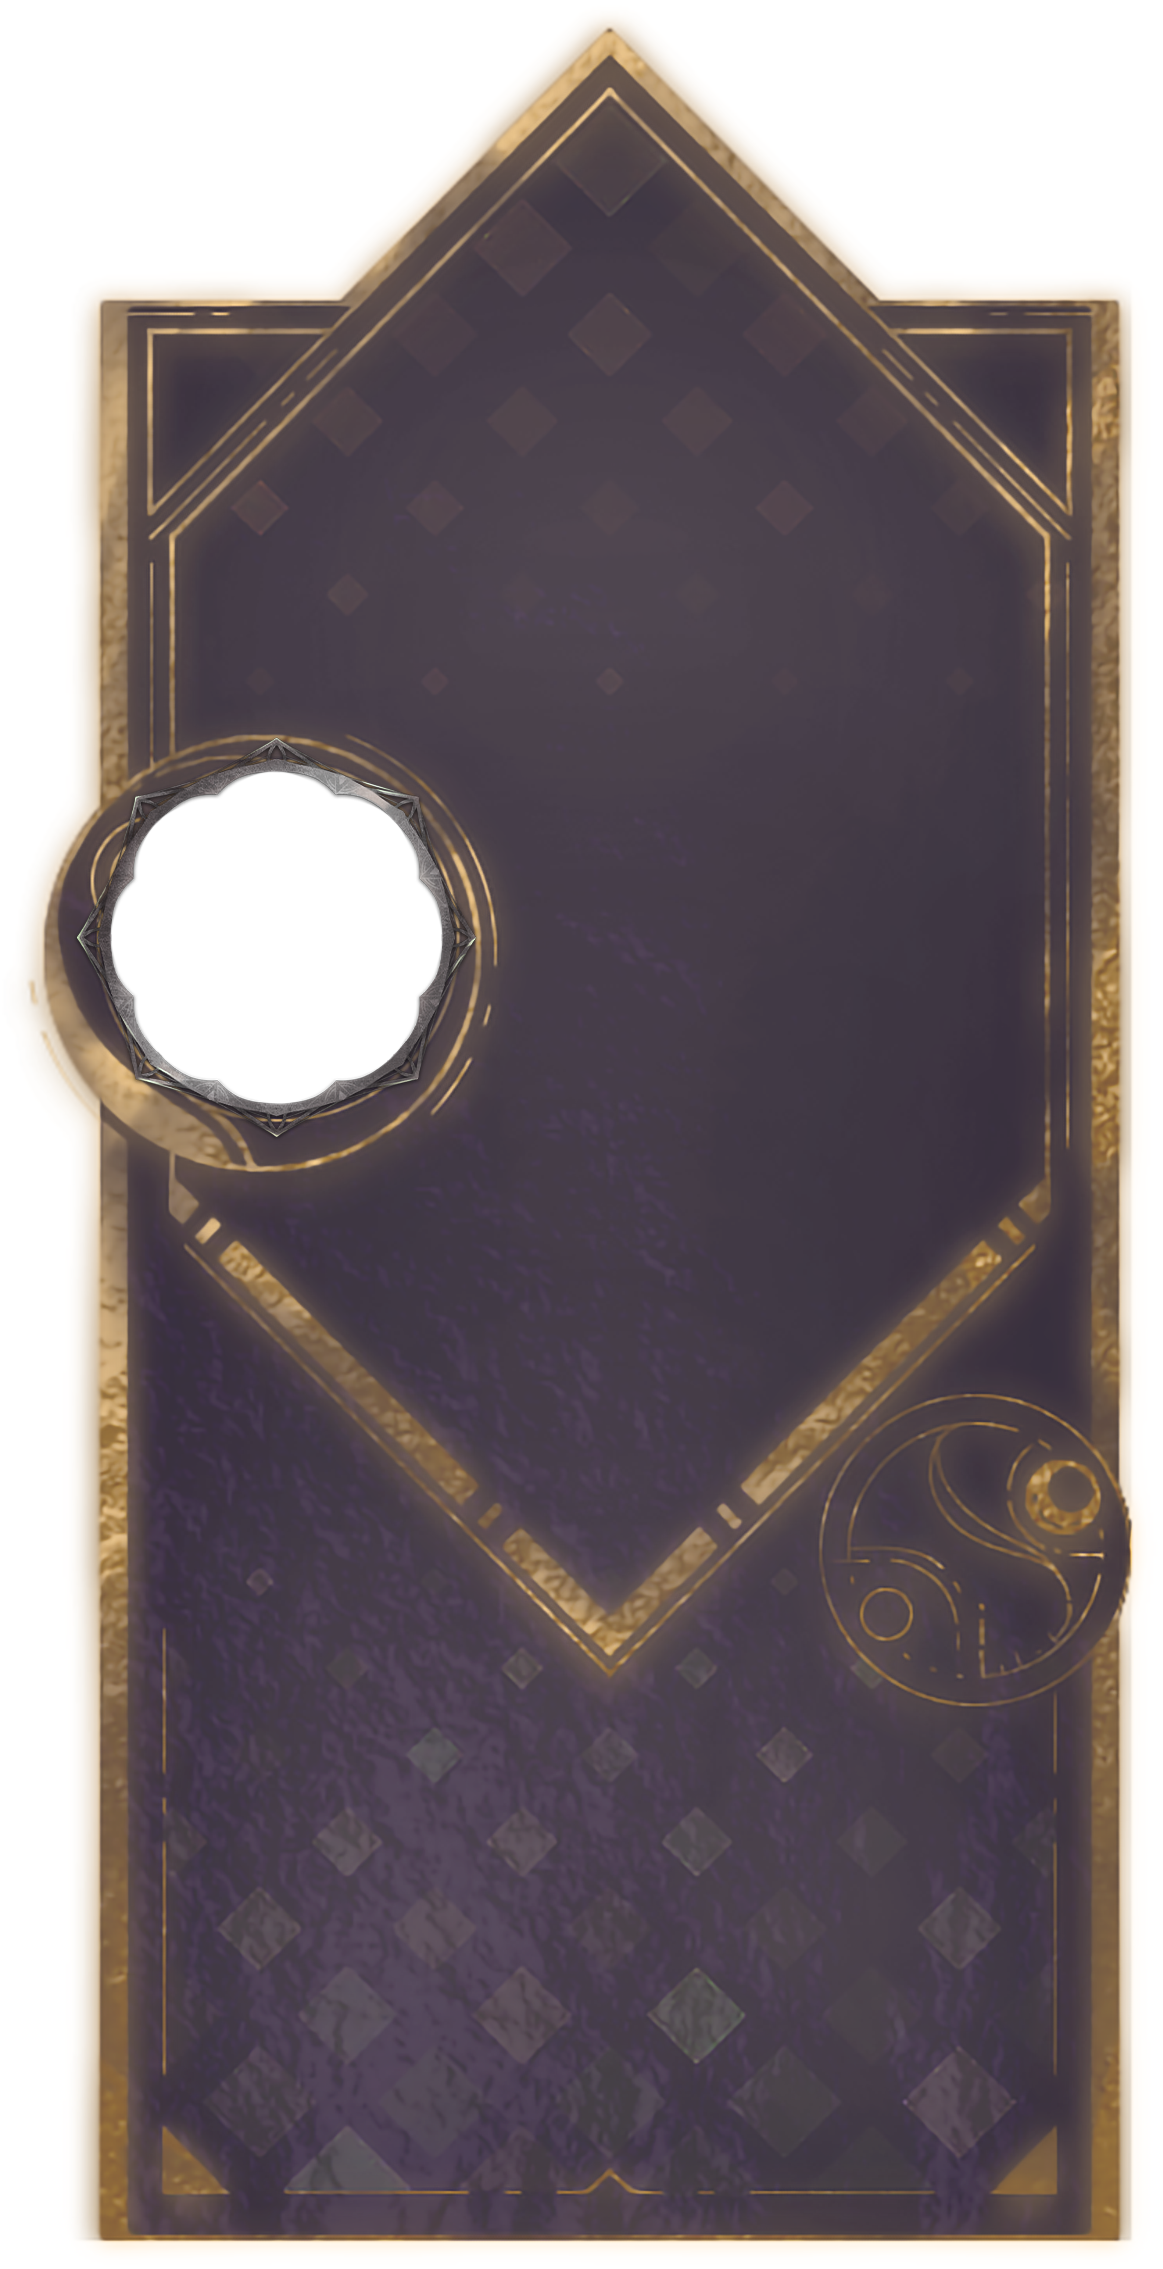
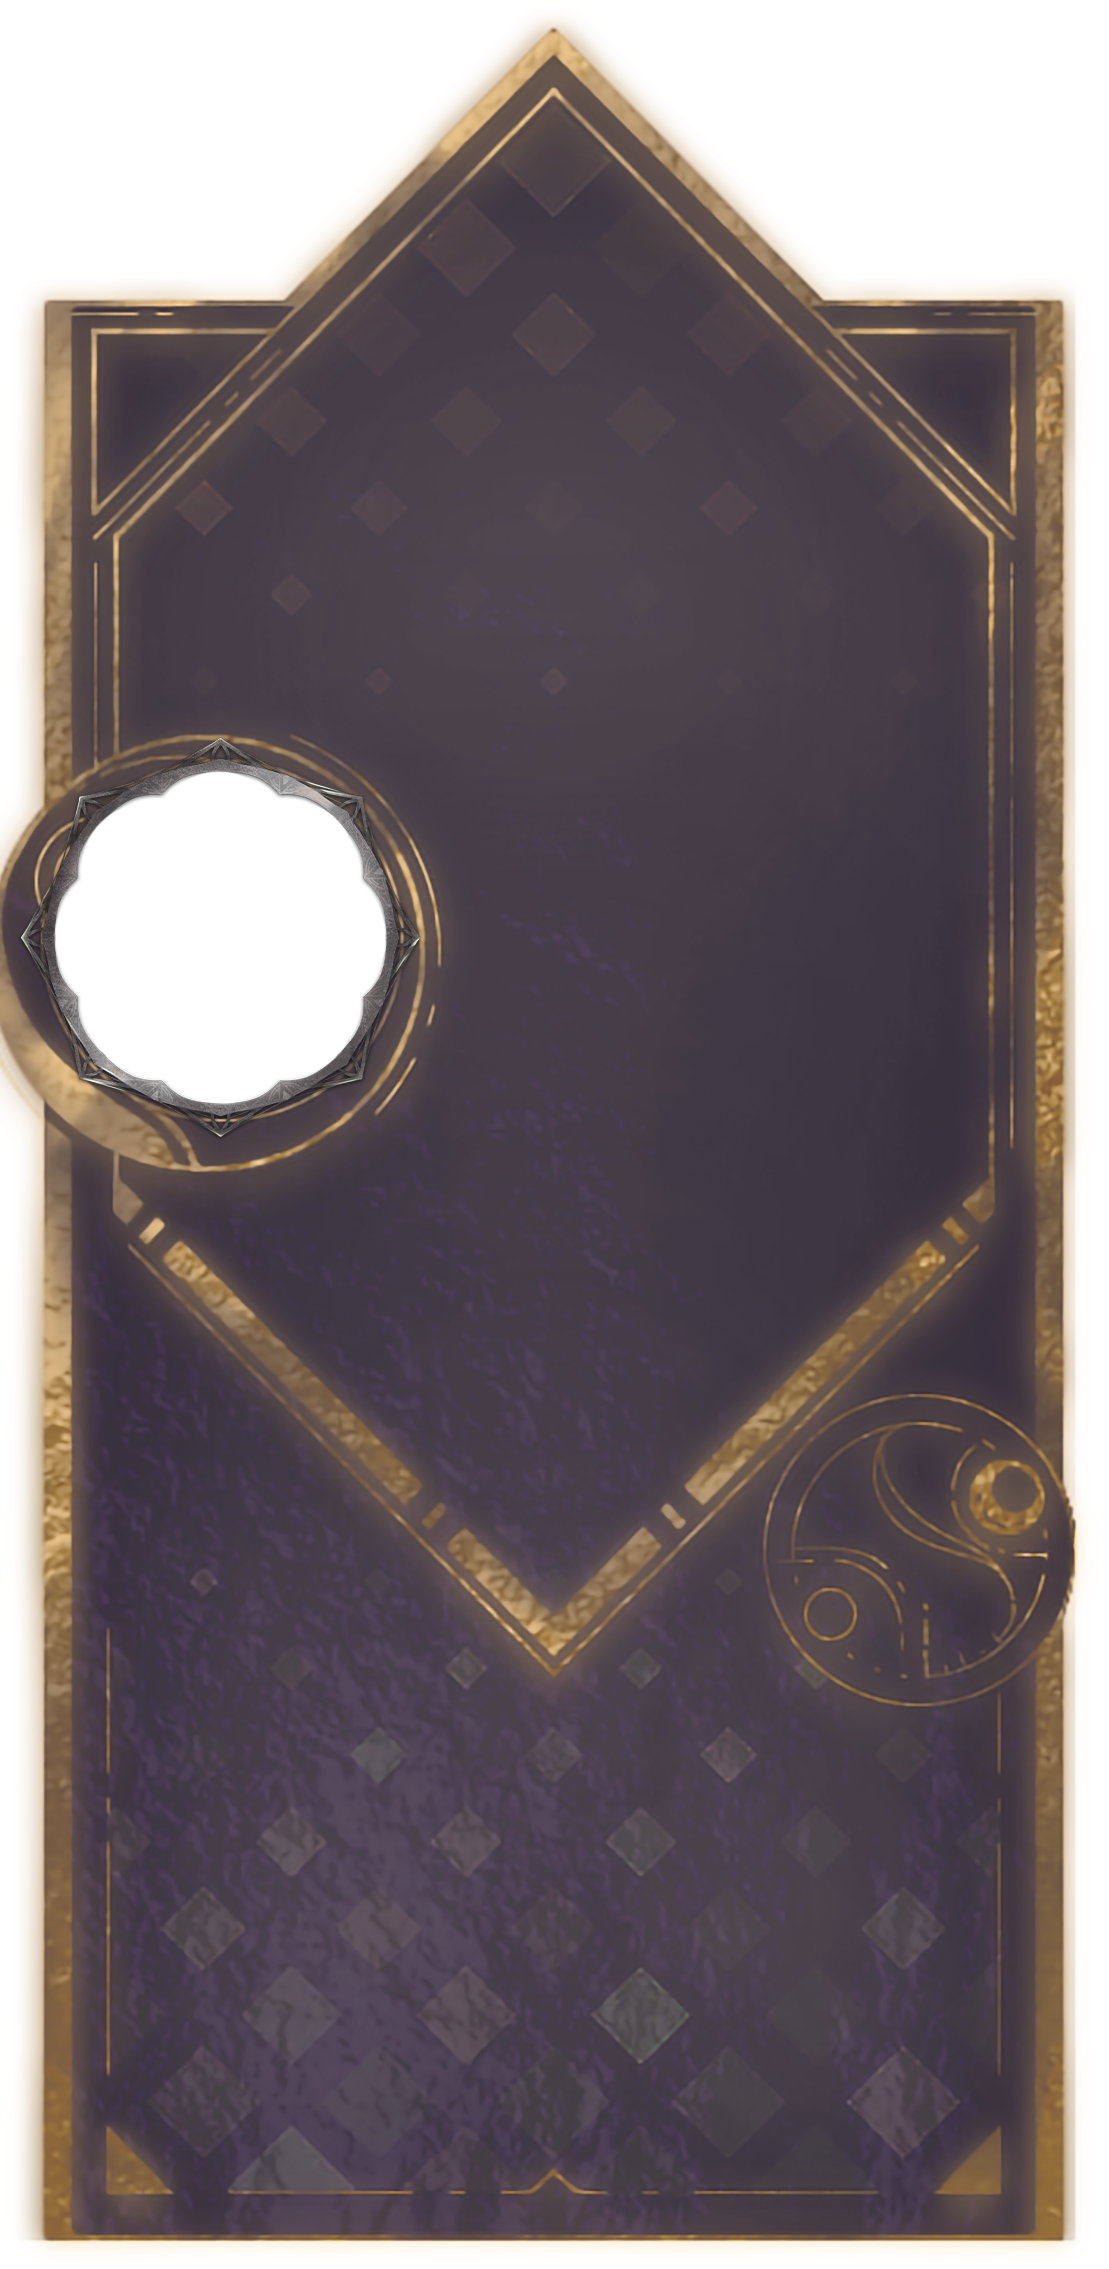
升级：个人信息、求签

diff --git a/Twip/user/user_info/payload/image_dao.py b/Twip/user/user_info/payload/image_dao.py
@@ -2,7 +2,7 @@
 Author: 七画一只妖 1157529280@qq.com
 Date: 2023-09-08 21:27:33
 LastEditors: 七画一只妖 1157529280@qq.com
-LastEditTime: 2023-09-08 23:49:04
+LastEditTime: 2023-09-09 14:27:25
 FilePath: \074个人信息卡片\payload\image_dao.py
 Description: 这是默认设置,请设置`customMade`, 打开koroFileHeader查看配置 进行设置: https://github.com/OBKoro1/koro1FileHeader/wiki/%E9%85%8D%E7%BD%AE
 '''
@@ -14,6 +14,7 @@ LastEditTime: 2023-09-08 21:31:07
 FilePath: \074个人信息卡片\image_dao.py
 Description: 这是默认设置,请设置`customMade`, 打开koroFileHeader查看配置 进行设置: https://github.com/OBKoro1/koro1FileHeader/wiki/%E9%85%8D%E7%BD%AE
 '''
+import random
 import httpx
 from PIL import Image
 from pathlib import Path
@@ -39,7 +40,10 @@ async def get_card(user_id: str, user_name: str) -> str:
     avatar_path = await get_avatar(user_id)
 
     # 2.背景合成
-    bg = Image.open(f"{BASE_PATH}\\image\\bg.png").convert('RGBA')
+    bg_list = [x for x in Path(f"{BASE_PATH}\\image").glob("bg*.png")]
+    bg_path = str(bg_list[random.randint(0, len(bg_list) - 1)])
+    bg = Image.open(bg_path).convert('RGBA')
+    
     card = Image.open(f"{BASE_PATH}\\image\\card.png").convert('RGBA')
     avatar = Image.open(avatar_path).convert('RGBA')
     avatar = avatar.resize((339,339))
@@ -47,7 +51,7 @@ async def get_card(user_id: str, user_name: str) -> str:
 
     # 4.合成
     avatar1 = circle(avatar)
-    img1 = picture_paste_img(avatar1, bg, (104,772))
+    img1 = picture_paste_img(avatar1, bg, (50,772))
     img2 = picture_paste_img(card, img1)
 
     # 获取数据
@@ -62,16 +66,16 @@ async def get_card(user_id: str, user_name: str) -> str:
     # 写字
     f_a = FontEntity()
     f_a.setSize(75).setColor("#FFFFE0")
-    resp1 = write_longsh(f_a, img2, f"=======    {level:<5}级   ======", "C", (270, 0))
+    resp1 = write_longsh(f_a, img2, f"{level:<5}级", "C", (270, 0))
 
     resp2 = write_longsh(f_a.setSize(50), resp1, f"{user_name}", "L", (180, 660))
 
-    resp2 = write_longsh(f_a, resp1, f"体力： {user_data[1]}/{user_data[4]}", "L", (600, 660))
-    resp2 = write_longsh(f_a, resp1, f"健康： {user_data[2]}/100", "L", (600, 760))
-    resp2 = write_longsh(f_a, resp1, f"境泉： {user_data[3]}", "L", (600, 860))
-    resp2 = write_longsh(f_a, resp1, f"发言： {user_data_old[4]}", "L", (600, 1060))
-    resp2 = write_longsh(f_a, resp1, f"占位： 0", "L", (600, 1160))
-    resp2 = write_longsh(f_a, resp1, f"占位： 0", "L", (600, 1260))
+    resp2 = write_longsh(f_a, resp1, f"体力值： {user_data[1]}/{user_data[4]}", "L", (550, 660))
+    resp2 = write_longsh(f_a, resp1, f"健康值： {user_data[2]}/100", "L", (550, 760))
+    resp2 = write_longsh(f_a, resp1, f"画境币： {user_data[3]}", "L", (550, 860))
+    resp2 = write_longsh(f_a, resp1, f"发言数： {user_data_old[4]}", "L", (550, 1060))
+    resp2 = write_longsh(f_a, resp1, f"占位符： 0", "L", (550, 1160))
+    resp2 = write_longsh(f_a, resp1, f"占位符： 0", "L", (550, 1260))
 
     level_txt1 = f"升级到{level_data['now_level']+1}级需要花费{level_data['level_up']}画境币\n发送 升级 即可"
 

diff --git a/Twip/user/user_sign/payload/image_dao.py b/Twip/user/user_sign/payload/image_dao.py
@@ -2,7 +2,7 @@
 Author: 七画一只妖 1157529280@qq.com
 Date: 2022-12-09 09:17:23
 LastEditors: 七画一只妖 1157529280@qq.com
-LastEditTime: 2023-08-29 13:52:24
+LastEditTime: 2023-09-09 15:18:50
 '''
 import datetime
 import random
@@ -42,16 +42,16 @@ def get_luck_info():
     info = None
     luck_num = random.randint(1,1000)
 
-    if luck_num <= 10:
-        luck_num2 = -99999999
-        info = '地狱'
-    elif luck_num <= 30:
+    if luck_num <= 50:
+        luck_num2 = "-" + str(random.randint(100000,10000000))
+        info = random.choice(PARY_TABLE["厄运"])
+    elif luck_num <= 100:
         luck_num2 = random.randint(100000,10000000)
         info = random.choice(PARY_TABLE["大吉"])
-    elif luck_num <= 100:
+    elif luck_num <= 200:
         luck_num2 = random.randint(1000,99999)
         info = random.choice(PARY_TABLE["中吉"])
-    elif luck_num <= 300:
+    elif luck_num <= 400:
         luck_num2 = random.randint(10,999)
         info = random.choice(PARY_TABLE["小吉"])
     elif luck_num <= 1000:

diff --git a/Twip/user/user_sign/payload/data/pray_txt.py b/Twip/user/user_sign/payload/data/pray_txt.py
@@ -2,7 +2,7 @@
 Author: 七画一只妖 1157529280@qq.com
 Date: 2022-12-09 10:10:29
 LastEditors: 七画一只妖 1157529280@qq.com
-LastEditTime: 2023-05-08 21:00:13
+LastEditTime: 2023-09-09 15:10:13
 '''
 PARY_TABLE = {
     "大吉": [
@@ -12,9 +12,12 @@ PARY_TABLE = {
         "如月","如梦","皎洁","烈火"
     ],
     "小吉": [
-        "璀璨","欢愉","波澜"
+        "璀璨","欢愉","波澜","豁然"
     ],
     "末吉": [
-        "恬静","午后","平静","白雪","碧空"
+        "恬静","午后","平静","白雪","碧空","静谧","海隐","一念","婆娑"
     ],
+    "厄运": [
+        "苦难","虚无","虚骸","深渊","幽枉","无间","天使"
+    ]
 }
